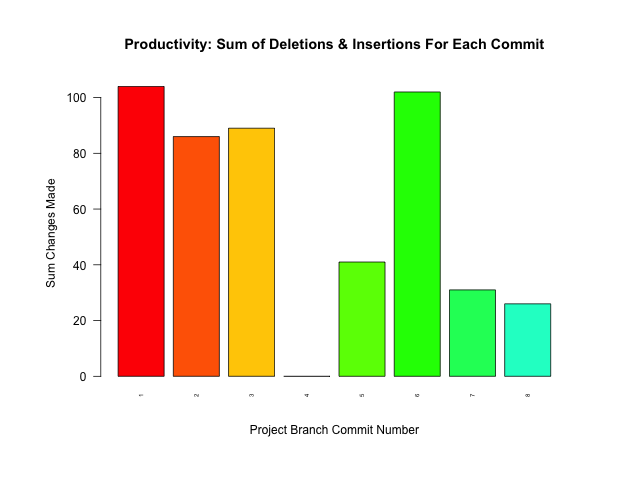
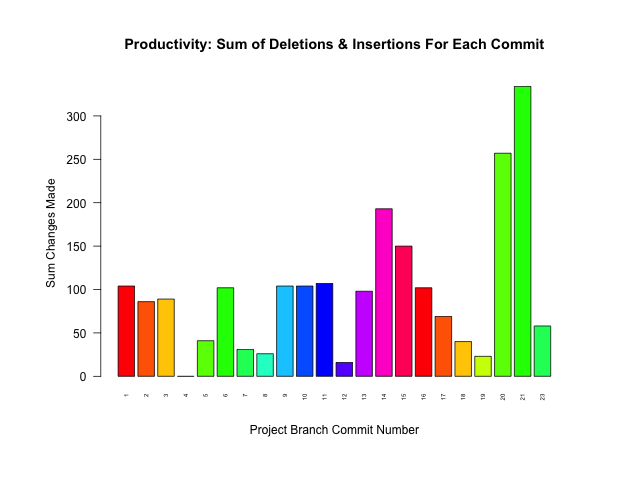
COMMIT #271

diff --git a/README.md b/README.md
@@ -17,8 +17,8 @@ ProjectName::BranchName.data
 
 Project Name | Last Updated | # Commits | # Branches | Branches Merged
 :---|:---:|:---:|:---:|:---:
-[commit_tracker](https://github.com/pierremigeon/commit_tracker)                                    |  2023-07-29  |  269  |  1  |  100%  (1/1)
-[Algorithms_practice](https://github.com/pierremigeon/Algorithms_practice)                          |  2023-07-29  |  18   |  7  |  86%   (6/7)
+[Algorithms_practice](https://github.com/pierremigeon/Algorithms_practice)                          |  2023-07-30  |  23   |  7  |  100%  (7/7)
+[commit_tracker](https://github.com/pierremigeon/commit_tracker)                                    |  2023-07-29  |  270  |  1  |  100%  (1/1)
 [FASTQ_examiner](https://github.com/pierremigeon/FASTQ_examiner)                                    |  2023-07-28  |  80   |  4  |  75%   (3/4)
 [learn_some_C.Plus.Plus](https://github.com/pierremigeon/learn_some_C.Plus.Plus)                    |  2023-07-17  |  79   |  2  |  50%   (1/2)
 [libft](https://github.com/pierremigeon/libft)                                                      |  2023-06-05  |  30   |  2  |  50%   (1/2)

diff --git a/Algorithms_practice_project/readme.md b/Algorithms_practice_project/readme.md
@@ -1,1 +1,1 @@
-![test_image](https://github.com/pierremigeon/commit_tracker/blob/master/Algorithms_practice_project/Algorithms_practice::graph_BFS.data_sum_barplot.png)
+![test_image](https://github.com/pierremigeon/commit_tracker/blob/master/Algorithms_practice_project/Algorithms_practice::master.data_sum_barplot.png)
